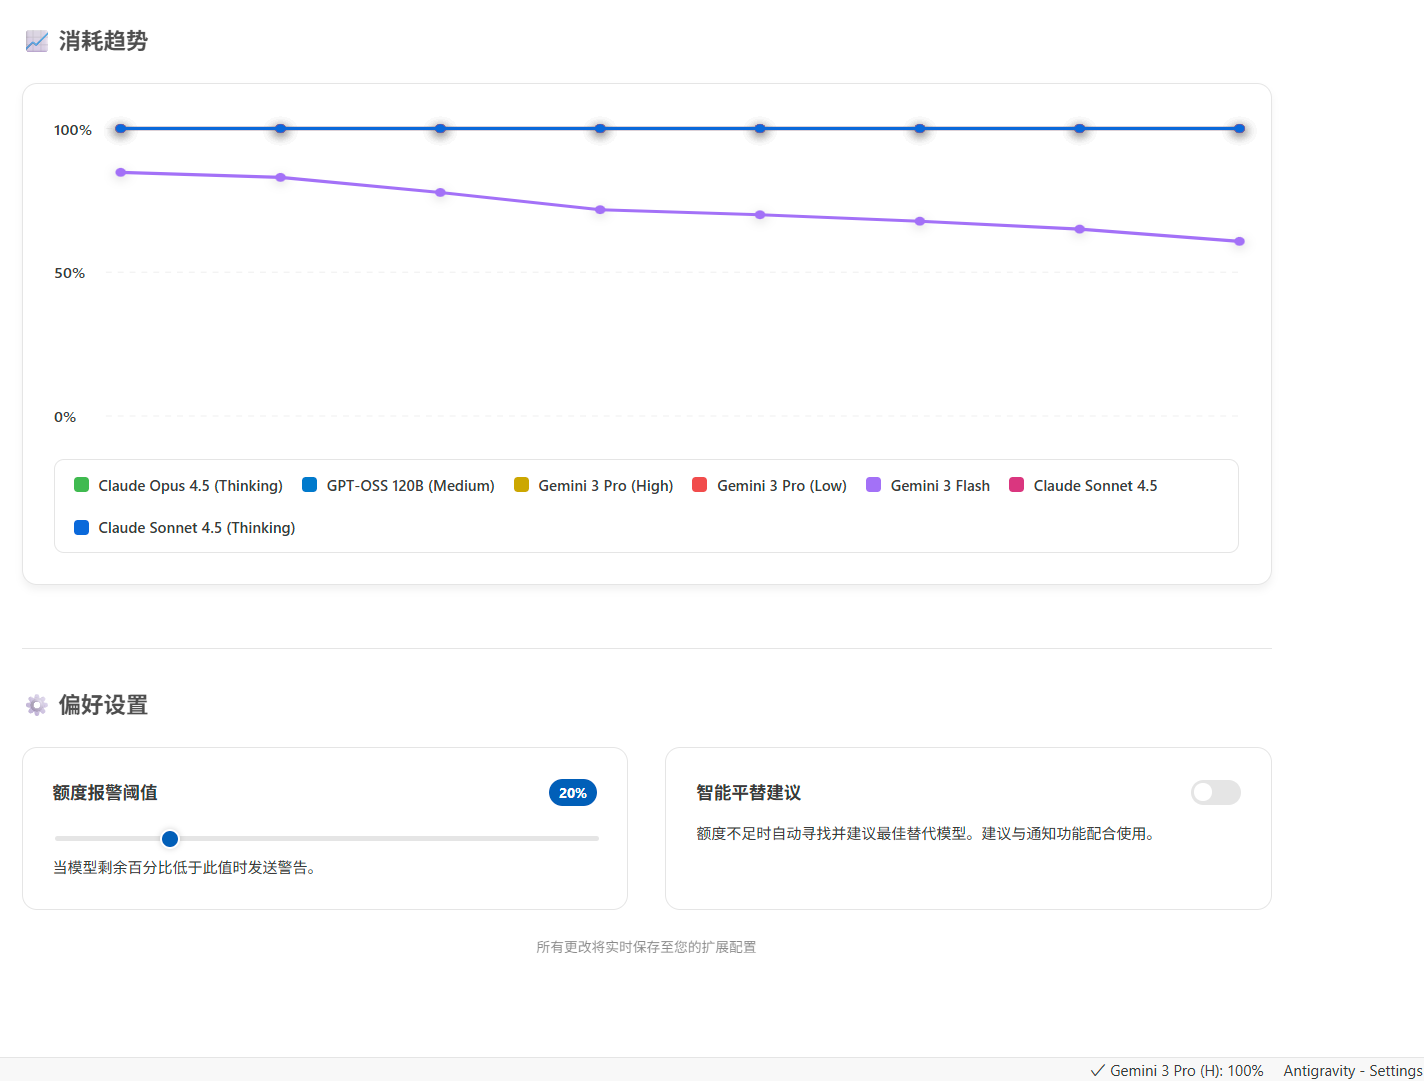
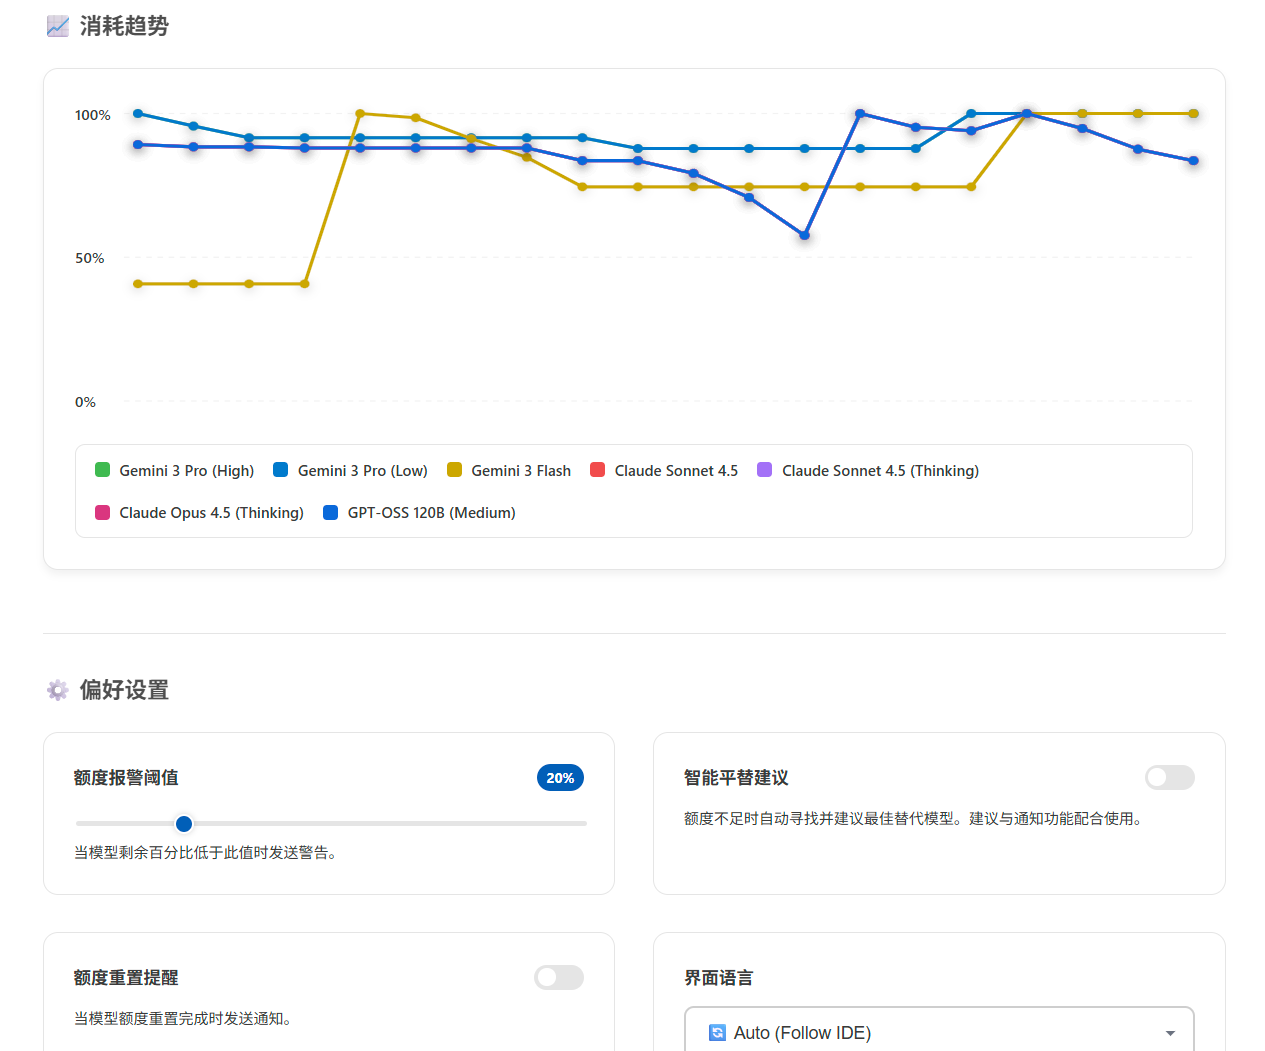
feat: 新增额度重置提醒功能 v1.3.3
- 新增额度重置提醒功能，当模型额度从低于90%恢复到90%以上时自动发送通知
- 在仪表盘偏好设置中新增'额度重置提醒'开关，默认关闭，样式与其他设置卡片统一
- 新增 ag-quota.enableResetNotification 配置项
- 为额度重置提醒功能添加完整的5语言支持（中文、英文、日文、法文、德文）
- 更新所有语言版本的插件市场描述
- 更新 README.md 和 CHANGELOG.md 文档
- 版本号更新至 1.3.3

diff --git a/src/ui/dashboard.ts b/src/ui/dashboard.ts
@@ -13,6 +13,8 @@ const DASHBOARD_I18N: Record<string, any> = {
         thresholdDesc: '当模型剩余百分比低于此值时发送警告。',
         autoSwitchLabel: '智能平替建议',
         autoSwitchDesc: '额度不足时自动寻找并建议最佳替代模型。建议与通知功能配合使用。',
+        resetNotifyLabel: '额度重置提醒',
+        resetNotifyDesc: '当模型额度重置完成时发送通知。',
         languageLabel: '界面语言',
         languageDesc: '选择仪表盘和通知的显示语言。',
         saveIndicator: '所有更改将实时保存至您的扩展配置',
@@ -29,6 +31,8 @@ const DASHBOARD_I18N: Record<string, any> = {
         thresholdDesc: 'Send an alert when the remaining percentage falls below this value.',
         autoSwitchLabel: 'Smart Model Suggestion',
         autoSwitchDesc: 'Automatically suggest alternatives when quota is low.',
+        resetNotifyLabel: 'Reset Notification',
+        resetNotifyDesc: 'Send a notification when a model\'s quota has been reset.',
         languageLabel: 'Language',
         languageDesc: 'Select the language for the dashboard and notifications.',
         saveIndicator: 'Changes are saved in real-time to your extension config.',
@@ -45,6 +49,8 @@ const DASHBOARD_I18N: Record<string, any> = {
         thresholdDesc: '残りの割合がこの値を下回ったときにアラートを送信します。',
         autoSwitchLabel: 'スマートモデル提案',
         autoSwitchDesc: 'クォータが不足しているときに代替案を自動的に提案します。',
+        resetNotifyLabel: 'リセット通知',
+        resetNotifyDesc: 'モデルのクォータがリセットされたときに通知を送信します。',
         languageLabel: '言語',
         languageDesc: 'ダッシュボードと通知の言語を選択します。',
         saveIndicator: '変更はリアルタイムで拡張機能の構成に保存されます。',
@@ -61,6 +67,8 @@ const DASHBOARD_I18N: Record<string, any> = {
         thresholdDesc: 'Envoyer une alerte lorsque le pourcentage restant tombe en dessous de cette valeur.',
         autoSwitchLabel: 'Suggestion de modèle intelligent',
         autoSwitchDesc: 'Suggérer automatiquement des alternatives lorsque le quota est faible.',
+        resetNotifyLabel: 'Notification de réinitialisation',
+        resetNotifyDesc: 'Envoyer une notification lorsque le quota d\'un modèle a été réinitialisé.',
         languageLabel: 'Langue',
         languageDesc: 'Sélectionnez la langue du tableau de bord et des notifications.',
         saveIndicator: 'Les modifications sont enregistrées en temps réel.',
@@ -77,6 +85,8 @@ const DASHBOARD_I18N: Record<string, any> = {
         thresholdDesc: 'Alarm senden, wenn der verbleibende Prozentsatz unter diesen Wert fällt.',
         autoSwitchLabel: 'Intelligente Modellvorschläge',
         autoSwitchDesc: 'Automatisch Alternativen vorschlagen, wenn das Kontingent niedrig ist.',
+        resetNotifyLabel: 'Rücksetz-Benachrichtigung',
+        resetNotifyDesc: 'Benachrichtigung senden, wenn das Kontingent eines Modells zurückgesetzt wurde.',
         languageLabel: 'Sprache',
         languageDesc: 'Wählen Sie die Sprache für das Dashboard und die Benachrichtigungen aus.',
         saveIndicator: 'Änderungen werden in Echtzeit in Ihrer Konfiguration gespeichert.',
@@ -169,6 +179,7 @@ export class DashboardManager {
         const config = vscode.workspace.getConfiguration('ag-quota');
         const currentThreshold = config.get('warningThreshold', 20);
         const autoSwitch = config.get('autoSwitchModels', false);
+        const enableResetNotify = config.get('enableResetNotification', false);
         const langPreference = config.get<string>('language', 'auto') || 'auto';
 
         const i18n = this.get_translation(langPreference);
@@ -545,6 +556,18 @@ export class DashboardManager {
                 <div class="setting-card-inner">
                     <div class="setting-item">
                         <div class="setting-label">
+                            <span>${i18n.resetNotifyLabel}</span>
+                            <label class="switch">
+                                <input type="checkbox" id="resetnotify-check" ${enableResetNotify ? 'checked' : ''}>
+                                <span class="slider"></span>
+                            </label>
+                        </div>
+                        <div class="description">${i18n.resetNotifyDesc}</div>
+                    </div>
+                </div>
+                <div class="setting-card-inner">
+                    <div class="setting-item">
+                        <div class="setting-label">
                             <span>${i18n.languageLabel}</span>
                         </div>
                         <div class="language-selector">
@@ -596,6 +619,15 @@ export class DashboardManager {
             vscode.postMessage({
                 type: 'updateSetting',
                 key: 'autoSwitchModels',
+                value: e.target.checked
+            });
+        });
+
+        const resetNotifyCheck = document.getElementById('resetnotify-check');
+        resetNotifyCheck.addEventListener('change', (e) => {
+            vscode.postMessage({
+                type: 'updateSetting',
+                key: 'enableResetNotification',
                 value: e.target.checked
             });
         });

diff --git a/src/utils/i18n.ts b/src/utils/i18n.ts
@@ -1,6 +1,7 @@
 export const EXT_I18N: Record<string, any> = {
     'zh-cn': {
         quotaWarning: '额度报警: 模型 {0} 剩余额度仅剩 {1}%！',
+        quotaReset: '🎉 额度已重置: 模型 {0} 已恢复到 {1}%！',
         tryAlternative: '尝试使用 {0}',
         switchManually: '请在 Antigravity 模型选择菜单中手动切换至 {0}',
         pinedDefault: 'AGQ',
@@ -8,6 +9,7 @@ export const EXT_I18N: Record<string, any> = {
     },
     'en': {
         quotaWarning: 'Quota Warning: Model {0} has only {1}% remaining!',
+        quotaReset: '🎉 Quota Reset: Model {0} is now at {1}%!',
         tryAlternative: 'Try using {0}',
         switchManually: 'Please manually switch to {0} in the Antigravity model menu',
         pinedDefault: 'AGQ',
@@ -15,6 +17,7 @@ export const EXT_I18N: Record<string, any> = {
     },
     'ja': {
         quotaWarning: 'クォータ警告: モデル {0} の残量はわずか {1}% です！',
+        quotaReset: '🎉 クォータリセット: モデル {0} が {1}% に回復しました！',
         tryAlternative: '{0} を試す',
         switchManually: 'Antigravity モデルメニューで手動で {0} に切り替えてください',
         pinedDefault: 'AGQ',
@@ -22,6 +25,7 @@ export const EXT_I18N: Record<string, any> = {
     },
     'fr': {
         quotaWarning: 'Alerte Quota : Modèle {0} n\'a plus que {1}% restant !',
+        quotaReset: '🎉 Quota réinitialisé : Modèle {0} est maintenant à {1}% !',
         tryAlternative: 'Essayer {0}',
         switchManually: 'Veuillez passer manuellement à {0} dans le menu du modèle Antigravity',
         pinedDefault: 'AGQ',
@@ -29,6 +33,7 @@ export const EXT_I18N: Record<string, any> = {
     },
     'de': {
         quotaWarning: 'Kontingent-Warnung: Modell {0} hat nur noch {1}% übrig!',
+        quotaReset: '🎉 Kontingent zurückgesetzt: Modell {0} ist jetzt bei {1}%!',
         tryAlternative: 'Versuchen Sie {0}',
         switchManually: 'Bitte wechseln Sie manuell zu {0} im Antigravity-Modellmenü',
         pinedDefault: 'AGQ',

diff --git a/src/extension.ts b/src/extension.ts
@@ -21,6 +21,8 @@ let history_manager: HistoryManager;
 let dashboard_manager: DashboardManager;
 let is_initialized = false;
 const warned_models = new Set<string>();
+// Track previous quota percentages to detect resets
+const previous_quotas = new Map<string, number>();
 
 export async function activate(context: vscode.ExtensionContext) {
 	logger.init(context);
@@ -141,6 +143,27 @@ export async function activate(context: vscode.ExtensionContext) {
 					// Reset warning if quota is above threshold (e.g. reset)
 					warned_models.delete(m.model_id);
 				}
+			}
+		}
+
+		// Check for quota reset notifications
+		if (current_config.enable_reset_notification) {
+			const RESET_THRESHOLD = 90; // Consider quota reset if it jumps to >= 90%
+			const lang = current_config.language === 'auto' ? vscode.env.language : current_config.language;
+
+			for (const m of snapshot.models) {
+				const pct = m.remaining_percentage ?? 0;
+				const prev_pct = previous_quotas.get(m.model_id);
+
+				// Detect reset: previous was below 90% and now is >= 90%
+				if (prev_pct !== undefined && prev_pct < RESET_THRESHOLD && pct >= RESET_THRESHOLD) {
+					const msg = getTranslation(lang, 'quotaReset', m.label, pct.toFixed(1));
+					vscode.window.showInformationMessage(msg);
+					logger.info('Extension', `Quota reset detected for ${m.label}: ${prev_pct.toFixed(1)}% -> ${pct.toFixed(1)}%`);
+				}
+
+				// Update previous quota
+				previous_quotas.set(m.model_id, pct);
 			}
 		}
 

diff --git a/src/core/config_manager.ts b/src/core/config_manager.ts
@@ -20,6 +20,7 @@ export class ConfigManager {
 			warning_threshold: config.get<number>('warningThreshold', 20),
 			enable_notifications: config.get<boolean>('enableNotifications', true),
 			auto_switch_models: config.get<boolean>('autoSwitchModels', false),
+			enable_reset_notification: config.get<boolean>('enableResetNotification', false),
 			language: config.get<string>('language', 'auto') || 'auto',
 		};
 	}

diff --git a/src/utils/types.ts b/src/utils/types.ts
@@ -68,6 +68,7 @@ export interface config_options {
 	warning_threshold: number;
 	enable_notifications: boolean;
 	auto_switch_models: boolean;
+	enable_reset_notification: boolean;
 	language: string;
 }
 

diff --git a/README.md b/README.md
@@ -31,6 +31,7 @@
 - **实时额度监控**：自动检测 Antigravity 进程，后台定期轮询，支持多模型跟踪。
 - **状态栏集成**：直接在状态栏通过图标（$(check), $(warning), $(error)）展示额度健康状况。
 - **额度报警与智能建议**：自定义告警阈值，额度不足时自动寻找并建议同级替代模型。
+- **额度重置提醒**：当模型额度重置完成时自动发送通知，帮助您及时了解额度恢复情况。
 - **消耗趋势追踪**：本地持久化存储额度变化，智能差异化记录。
 - **可视化仪表盘**：精美的 Webview 面板，包含 SVG 趋势折线图和中心化设置入口。
 - **跨平台**：完全支持 Windows, macOS 和 Linux。
@@ -52,7 +53,10 @@
 | `agq.pollingInterval` | `120` | 轮询间隔（秒）（最小 30s） |
 | `agq.pinnedModels` | `[]` | 在状态栏固定的模型 ID |
 | `agq.warningThreshold` | `20` | 告警阈值（百分比） |
+| `agq.enableNotifications` | `true` | 启用额度低于阈值时的桌面通知 |
 | `agq.autoSwitchModels` | `false` | 是否开启智能切换建议 |
+| `agq.enableResetNotification` | `false` | 启用额度重置完成时的通知提醒 |
+| `agq.language` | `auto` | 界面语言（auto/zh-cn/en/ja/fr/de） |
 
 ---
 
@@ -76,7 +80,8 @@
 
 - **Real-time Monitoring**: Auto-detects Antigravity processes, background polling, and tracking for multiple models.
 - **Status Bar Integration**: Visual health indicators ($(check), $(warning), $(error)) at a glance.
-- **Quota Alerts & smart Suggestions**: Configurable thresholds and automatic substitute model recommendations.
+- **Quota Alerts & Smart Suggestions**: Configurable thresholds and automatic substitute model recommendations.
+- **Reset Notifications**: Automatic notifications when model quotas are reset, keeping you informed of quota recovery.
 - **Usage History**: Persistent local storage of quota changes with optimized logging.
 - **Visual Dashboard**: Beautiful Webview with SVG trend charts and centralized settings.
 - **Cross-platform**: Full support for Windows, macOS, and Linux.
@@ -98,7 +103,9 @@
 | `agq.pollingInterval` | `120` | Polling interval in seconds (min 30s) |
 | `agq.pinnedModels` | `[]` | Model IDs to pin in the status bar |
 | `agq.warningThreshold` | `20` | Warning threshold percentage |
+| `agq.enableNotifications` | `true` | Enable desktop notifications when quota is low |
 | `agq.autoSwitchModels` | `false` | Enable/disable smart model suggestions |
+| `agq.enableResetNotification` | `false` | Enable notifications when quotas are reset |
 | `agq.language` | `auto` | Language preference (auto/en/zh-cn/ja/fr/de) |
 
 ---
@@ -109,6 +116,7 @@
 - **リアルタイム監視**: Antigravityプロセスを自動検出し、バックグラウンドでポーリングを行い、複数のモデルを追跡します。
 - **ステータスバー統合**: ステータスバーのアイコン（$(check), $(warning), $(error)）で、クォータの状態を一目で確認できます。
 - **クォータアラートとスマートな提案**: しきい値を設定可能で、クォータが不足した際に代替モデルを自動的に推奨します。
+- **リセット通知**: モデルのクォータがリセットされたときに自動的に通知し、クォータの回復状況を把握できます。
 - **使用履歴**: クォータの変動をローカルに保存し、最適化されたログを保持します。
 - **ビジュアルダッシュボード**: SVGトレンドチャートと設定機能を集約した美しいWebviewパネル。
 
@@ -126,6 +134,7 @@
 - **Surveillance en temps réel**: Détection automatique des processus Antigravity, scrutation en arrière-plan et suivi de plusieurs modèles.
 - **Intégration de la barre d'état**: Indicateurs visuels ($(check), $(warning), $(error)) pour un aperçu rapide de l'état des quotas.
 - **Alertes et suggestions intelligentes**: Seuils configurables et recommandations automatiques de modèles de remplacement.
+- **Notifications de réinitialisation**: Notifications automatiques lorsque les quotas des modèles sont réinitialisés, vous tenant informé de la récupération des quotas.
 - **Historique d'utilisation**: Stockage local persistant des variations de quotas.
 - **Tableau de bord visuel**: Superbe panneau Webview avec graphiques de tendance SVG.
 
@@ -143,6 +152,7 @@
 - **Echtzeit-Überwachung**: Automatische Erkennung von Antigravity-Prozessen, Hintergrundabfrage und Verfolgung mehrerer Modelle.
 - **Statusleisten-Integration**: Visuelle Gesundheitsindikatoren ($(check), $(warning), $(error)) auf einen Blick.
 - **Quoten-Warnungen & intelligente Vorschläge**: Konfigurierbare Schwellenwerte und automatische Empfehlungen für Ersatzmodelle.
+- **Rücksetz-Benachrichtigungen**: Automatische Benachrichtigungen, wenn Modellkontingente zurückgesetzt werden, damit Sie über die Kontingenterholung informiert bleiben.
 - **Nutzungsverlauf**: Persistente lokale Speicherung von Quotenänderungen.
 - **Visuelles Dashboard**: Schönes Webview-Panel mit SVG-Trenddiagrammen und zentralisierten Einstellungen.
 

diff --git a/CHANGELOG.md b/CHANGELOG.md
@@ -1,5 +1,12 @@
 # 更新日志
 
+## 1.3.3 (2025-12-23)
+
+- **新增额度重置提醒功能**：当模型额度从低于 90% 恢复到 90% 以上时，自动发送通知提醒用户额度已重置。
+- **仪表盘新增设置项**：在偏好设置中新增"额度重置提醒"开关，默认关闭，样式与其他设置卡片统一。
+- **多语言支持**：为额度重置提醒功能添加了完整的 5 语言支持（中文、英文、日文、法文、德文）。
+- **配置优化**：新增 `ag-quota.enableResetNotification` 配置项，用户可在仪表盘或设置中灵活控制。
+
 ## 1.3.2 (2025-12-22)
 
 - **多语言支持**: 全面支持日语 (Japanese)、法语 (French) 和德语 (German)。
